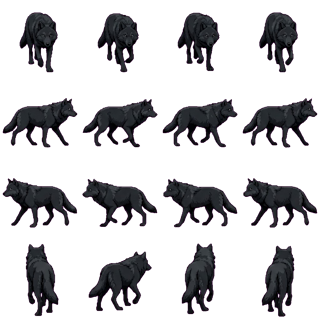
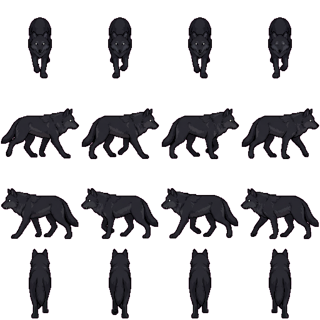
Update wolverine asset to use animated spritesheet: Replaced static wolverine walking sprite with a new animated 4x4 spritesheet. Added configuration for wolverine animation frames and updated preload function to include the new asset.

diff --git a/client/src/utils/renderers/wildAnimalRenderingUtils.ts b/client/src/utils/renderers/wildAnimalRenderingUtils.ts
@@ -21,6 +21,7 @@ import ternWalkingAnimatedSheet from '../../assets/tern_walking_release.png'; //
 import crowWalkingSheet from '../../assets/crow_walking.png';
 import voleWalkingSheet from '../../assets/vole_walking.png';
 import wolverineWalkingSheet from '../../assets/wolverine_walking.png';
+import wolverineWalkingAnimatedSheet from '../../assets/wolverine_walking_release.png'; // NEW: 4x4 animated spritesheet
 import caribouWalkingAnimatedSheet from '../../assets/caribou_walking_release.png'; // NEW: 4x4 animated spritesheet
 // Flying sprite sheets for birds
 import ternFlyingSheet from '../../assets/tern_flying.png';
@@ -148,6 +149,19 @@ const ANIMATED_SPRITE_CONFIGS: Record<string, AnimatedSpriteConfig> = {
         rows: 4,           // 4 directions
     },
     
+    // WOLVERINE - Medium-sized but stocky and muscular predator (4x4 layout: 4 frames × 4 directions)
+    // Artist spec: Check actual frame size - if clipped, may need adjustment
+    // If image is 320x320, frames should be 80x80, but sprites may overflow cells
+    // Renders at: 112x112 (1.4x scale) - medium-sized predator
+    'Wolverine': {
+        sheetWidth: 320,   // Total sheet width
+        sheetHeight: 320,  // Total sheet height
+        frameWidth: 80,    // Frame width (320 / 4 = 80)
+        frameHeight: 80,   // Frame height (320 / 4 = 80)
+        cols: 4,           // 4 animation frames
+        rows: 4,           // 4 directions
+    },
+    
     // ═══════════════════════════════════════════════════════════════════════════
     // HOSTILE NPC ANIMATED SPRITESHEETS (6x4 layout: 6 frames × 4 directions)
     // Row order: Down, Right, Left, Up (same as player)
@@ -231,7 +245,7 @@ const speciesSpriteSheets: Record<string, string> = {
     'Tern': ternWalkingAnimatedSheet, // Use animated 4x4 spritesheet
     'Crow': crowWalkingSheet,
     'Vole': voleWalkingSheet,
-    'Wolverine': wolverineWalkingSheet,
+    'Wolverine': wolverineWalkingAnimatedSheet, // Use animated 4x4 spritesheet
     'Caribou': caribouWalkingAnimatedSheet, // Use animated 4x4 spritesheet
     // Night hostile NPCs have custom sprites
     'Shorebound': shoreboundWalkingSheet,
@@ -1117,6 +1131,7 @@ export function preloadWildAnimalImages(): void {
         crowWalkingSheet,
         voleWalkingSheet,
         wolverineWalkingSheet,
+        wolverineWalkingAnimatedSheet, // NEW: Animated 4x4 wolverine spritesheet
         caribouWalkingAnimatedSheet, // Animated caribou spritesheet
         // Night hostile NPCs
         shoreboundWalkingSheet,
